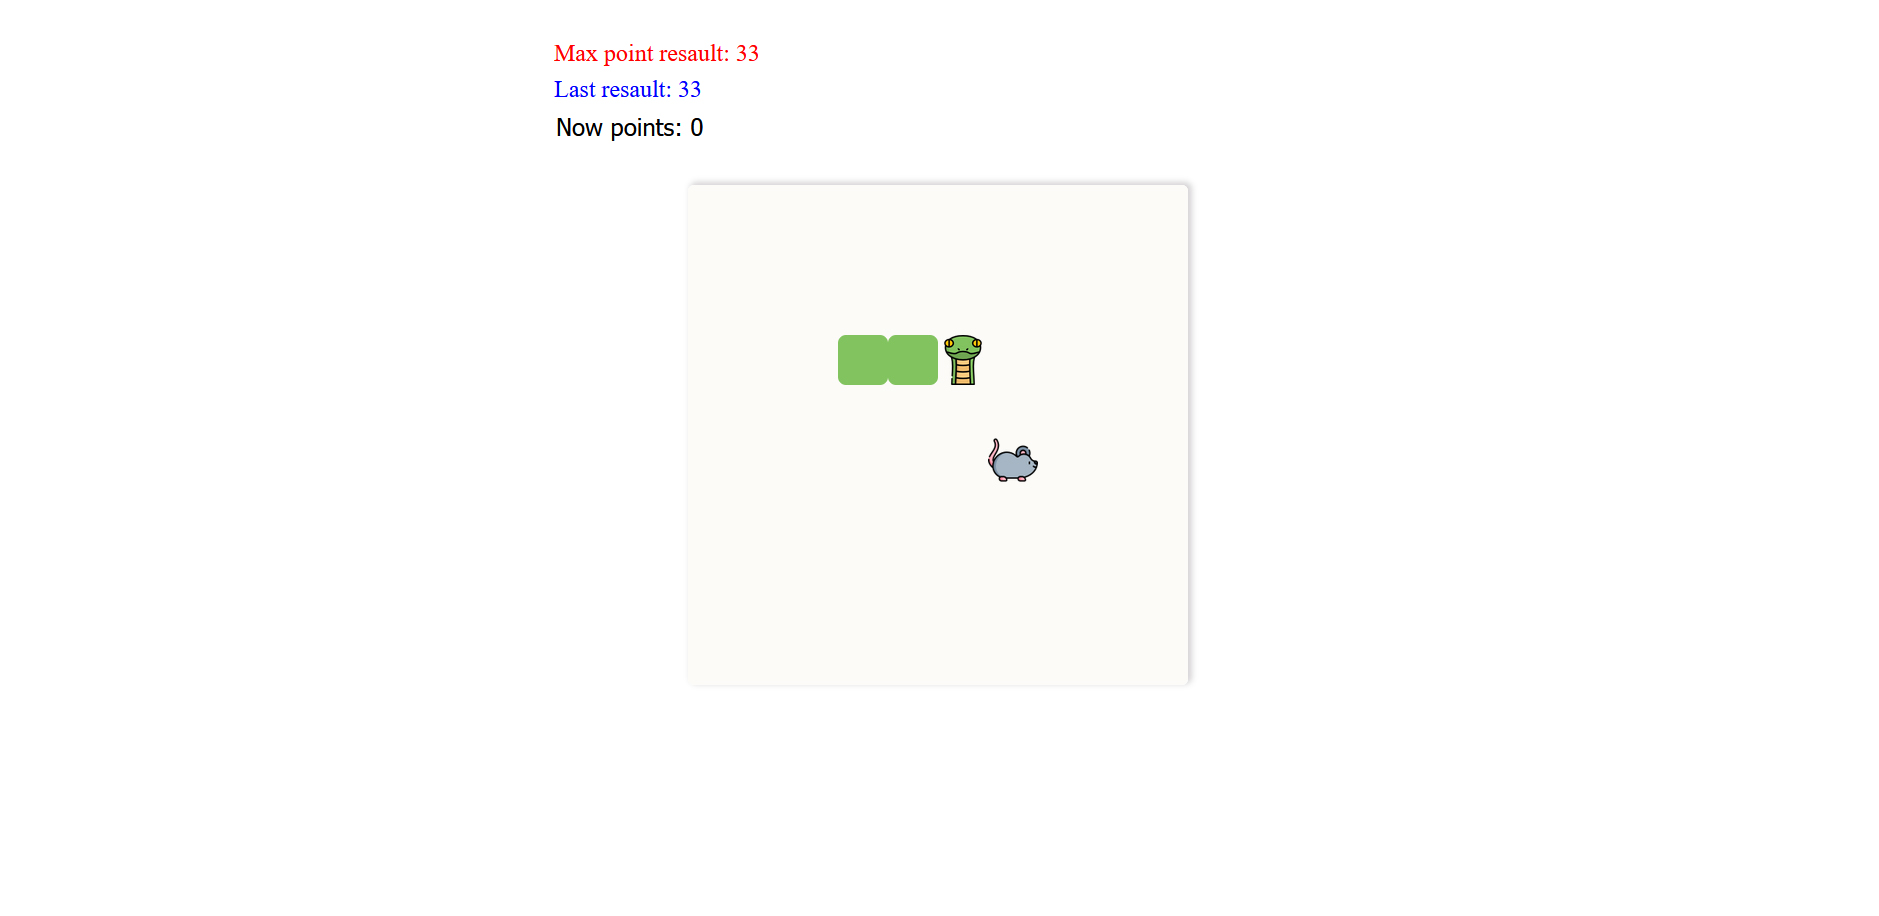
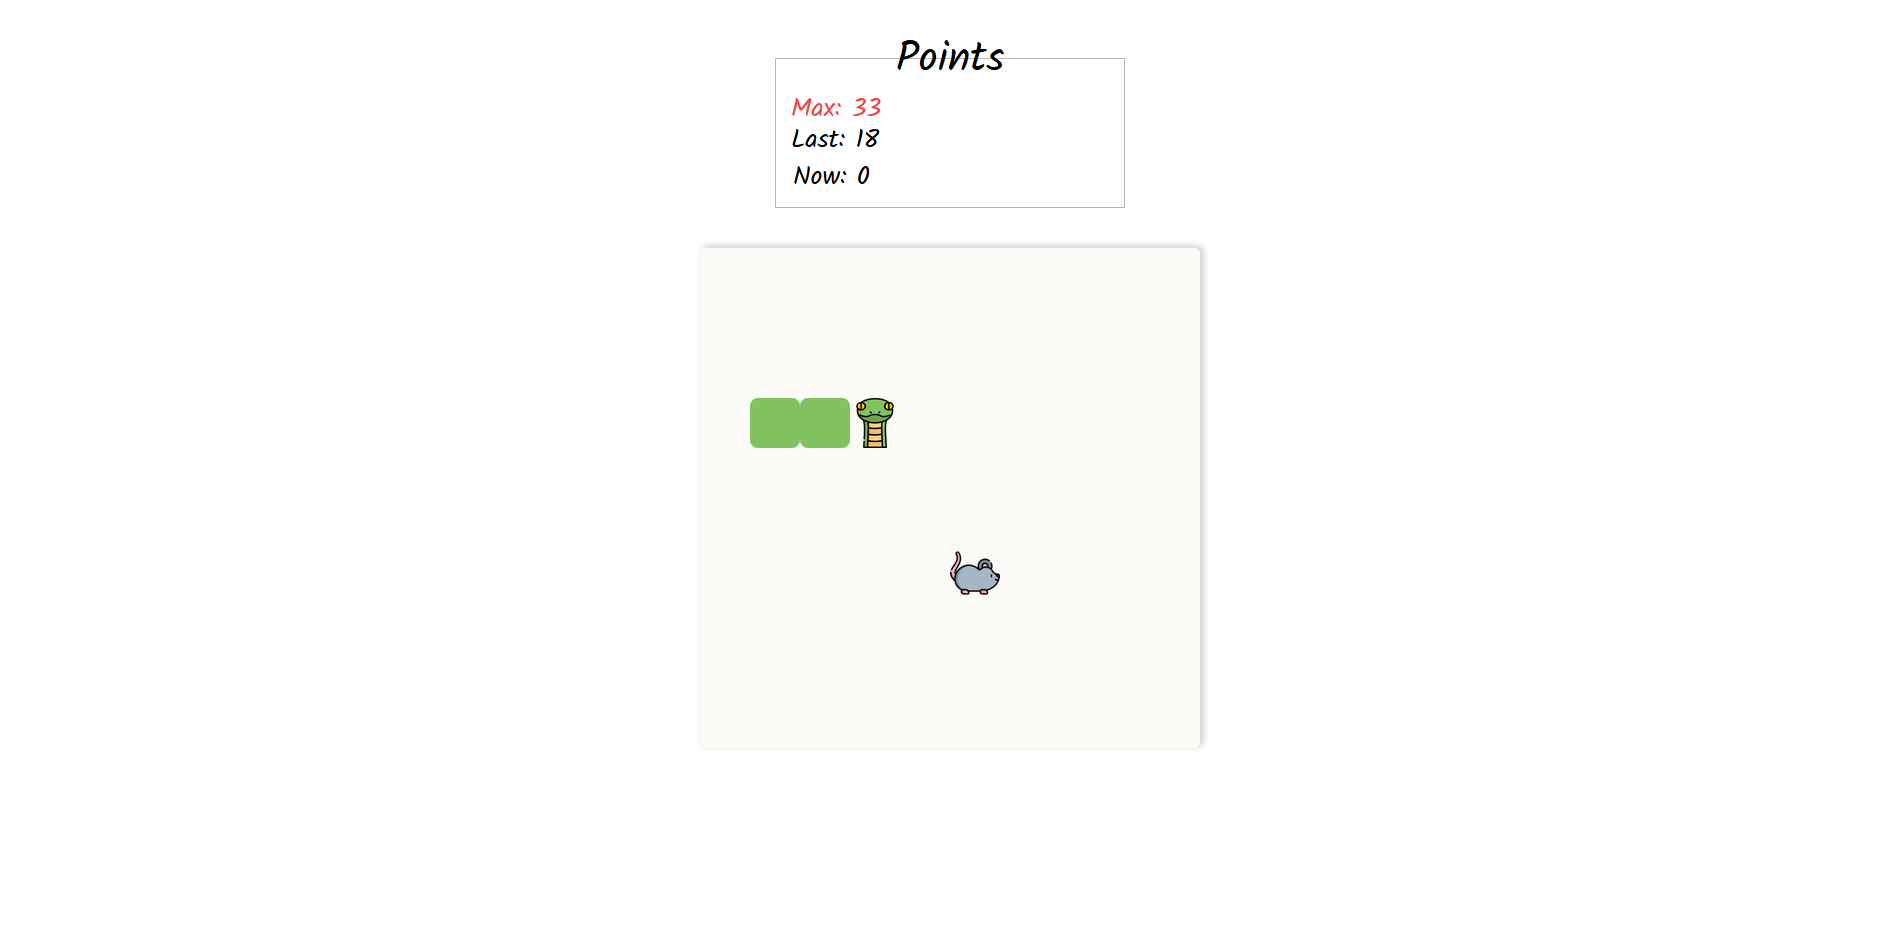
snake2

diff --git a/works/snake/style.css b/works/snake/style.css
@@ -1,4 +1,6 @@
-* { box-sizing: border-box; }
+* {
+    box-sizing: border-box;
+}
 
 .container {
     width: 510px;
@@ -6,7 +8,7 @@
 }
 
 .points_border {
-    margin: 40px auto;
+    margin: 70px auto 30px auto;
     width: 350px;
     height: 150px;
     font-family: "Kalam", cursive;
@@ -19,15 +21,23 @@
     text-align: center;
     margin-top: -48px;
 }
-.max_resault, .last_resault, .point_now {
+
+.max_resault,
+.last_resault,
+.point_now {
     font-size: 26px;
     font-weight: 500;
     line-height: 1.2;
     border: none;
 }
 
-.point_now { font-family: "Kalam", cursive;}
-.max_resault {color: rgb(243, 70, 70); }
+.point_now {
+    font-family: "Kalam", cursive;
+}
+
+.max_resault {
+    color: rgb(243, 70, 70);
+}
 
 .field {
     width: 500px;
